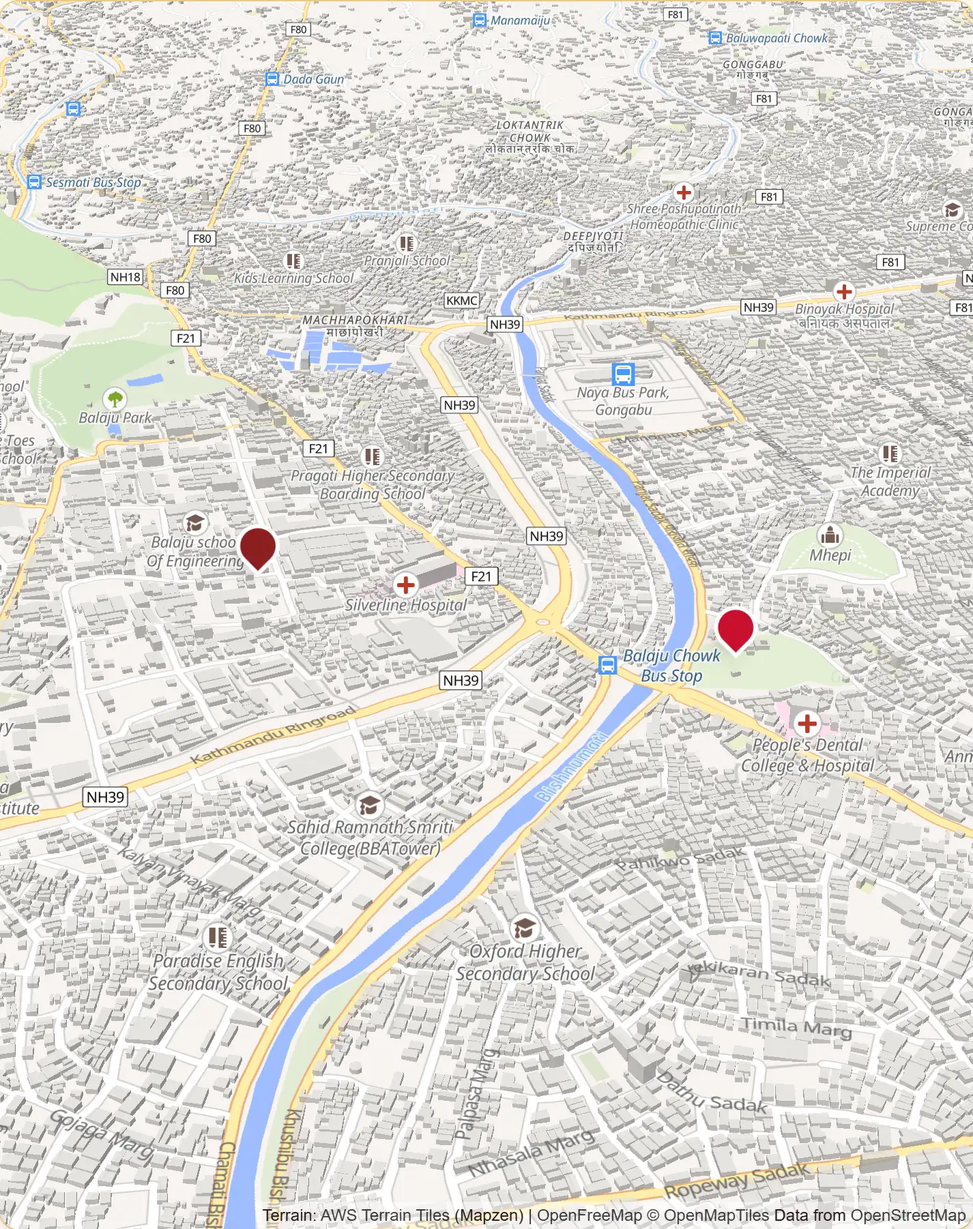
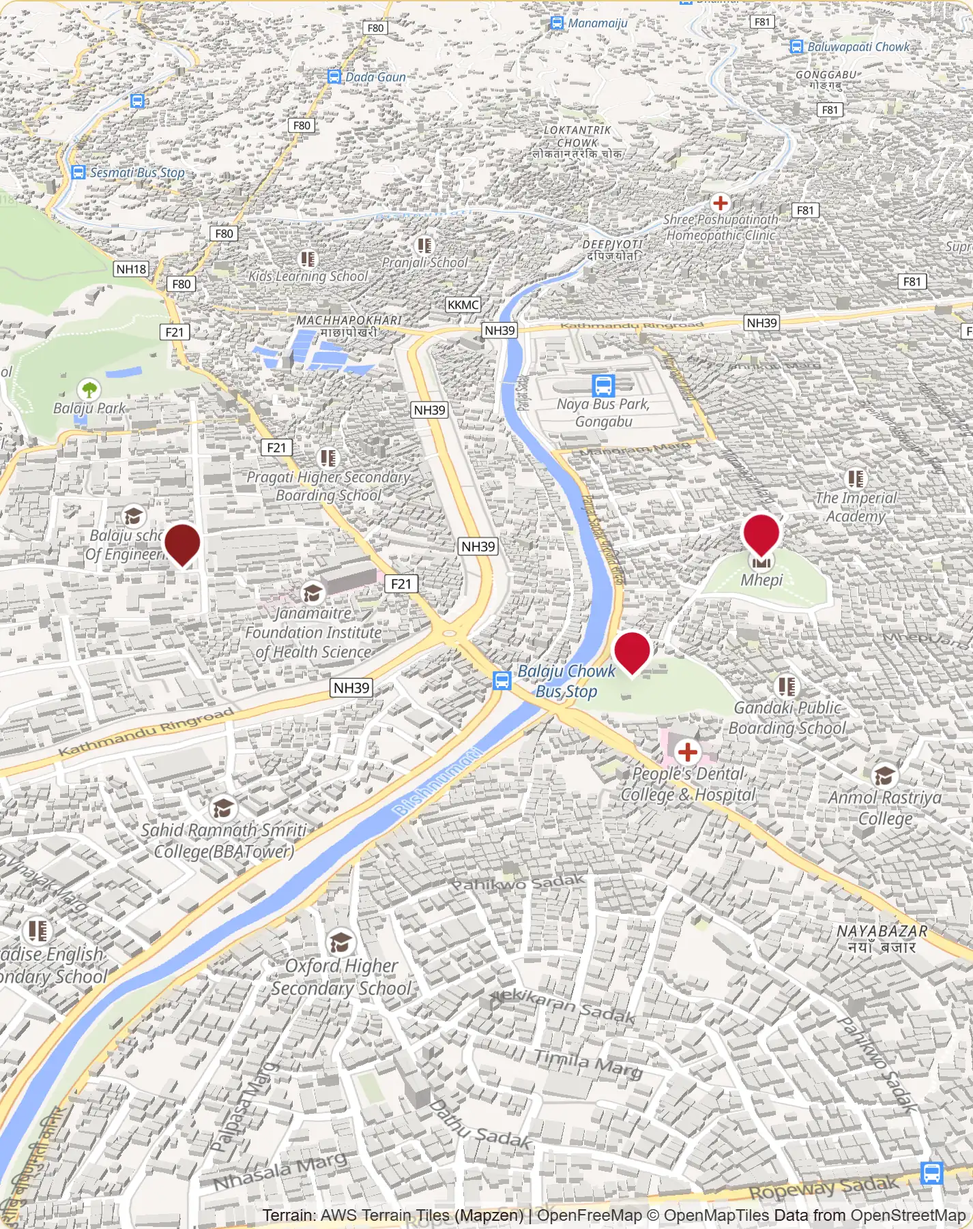
Publish Mhepi Ajima from the chief priest's interview
Source: the ward's interview with the temple's chief priest, Bhushan
Ratna Bajracharya (raw-data mhepi_ajima.docx). The docx was typed in the
Preeti font and converted to Unicode.

Content (EN + NE): history, the meaning of the name, legends, festivals
and the jatra route, architecture, present day and how to visit. Every
claim is attributed to the priest and cited by paragraph. `draft` and all
placeholders are removed.

Unknown facts are left off the page and listed in MISSING_INFO.md:
opening hours, entry fee, photography rules, directions.
`visiting.hours` is now optional.

Chatbot: Mhepi answers updated; new questions "What does 'Mhepi' mean?"
and "What is its link to Rato Machhindranath?".

The map preview now shows all three places. The strict `npm run build`
passes with 0 draft sites; DEPLOY.md now uses it.

diff --git a/src/types/heritage.ts b/src/types/heritage.ts
@@ -34,7 +34,8 @@ export const heritageFrontmatterSchema = z.object({
     }),
   ),
   visiting: z.object({
-    hours: z.string().min(1),
+    /** Left out when not known (the quick facts skip it). */
+    hours: z.string().min(1).optional(),
     entry: z.string().min(1).optional(),
     tips: z.string().min(1).optional(),
   }),

diff --git a/content/heritage/mhepi-ajima.ne.md b/content/heritage/mhepi-ajima.ne.md
@@ -2,20 +2,19 @@
 name: "Mhepi Ajima"
 nameNe: "म्हेपी अजिमा"
 slug: "mhepi-ajima"
-draft: true
-summary: "नयाँ बजार, वडा नं. १६ मा रहेको, म्हेपी संरक्षण तथा व्यवस्थापन समितिको हेरचाहमा रहेको योगाम्बर ज्ञानेश्वरी म्हेपी अजिमाको मन्दिर।"
-location: "नयाँ बजार, काठमाडौँ महानगरपालिका वडा नं. १६"
+summary: "नयाँ बजारको सानो वनयुक्त थुम्कोमा रहेको, सबैले म्हेपी अजिमा भनेर चिन्ने योगाम्बर ज्ञानेश्वरीको मन्दिर: काठमाडौँका अष्टमातृकामध्ये उत्तरतर्फको पीठ, जहाँ बौद्ध र हिन्दु दुवै आउँछन्।"
+location: "नयाँ बजारको सानो वनयुक्त थुम्को, काठमाडौँ महानगरपालिका वडा नं. १६"
 coordinates: [27.727614400718654, 85.30859929776761]
-established: "[PLACEHOLDER: स्थापना वर्ष]"
-deity_or_tradition: "योगाम्बर ज्ञानेश्वरी म्हेपी अजिमा (मन्दिरका अभिलेख अनुसार)"
+established: "लिखित अभिलेख छैन; मन्दिरको परम्पराले यसको इतिहास स्वयम्भू पुराणसँग जोड्छ। परिसरका धेरैजसो मूर्ति वि.सं. २०३० भन्दा अगाडि राखिएका हुन्।"
+deity_or_tradition: "योगाम्बर ज्ञानेश्वरी, अष्टमातृकाको मूल पीठ, बज्रयानी बौद्ध परम्परा; बौद्ध र हिन्दु दुवैले पुज्छन्, र पाटनका धेरै बज्राचार्य तथा शाक्य परिवारको कुल देवता।"
 festivals:
-  - name: "[PLACEHOLDER: चाडको नाम]"
-    month: "[PLACEHOLDER: महिना]"
-    description: "[PLACEHOLDER: चाडको छोटो विवरण]"
+  - name: "चह्रे (कृष्ण पक्ष चतुर्दशी)"
+    description: "कृष्ण पक्षको चतुर्दशीमा मन्दिरमा मुख्य पूजा हुन्छ।"
+  - name: "वार्षिक जात्रा र मेला"
+    month: "चैत्र–वैशाख"
+    description: "चैत्र शुक्ल चतुर्दशीमा टाँलाछीको द्योछेंबाट मूर्तिहरू ल्याई रातभरि र पूर्णिमामा पूजा गरिन्छ, अनि असन, इन्द्रचोक, ठहिटी, पक्नाजोल र क्षेत्रपाटी हुँदै घुमाइन्छ। मन्दिरमा पाँच दिन मेला लाग्छ।"
 visiting:
-  hours: "[PLACEHOLDER: खुल्ने समय]"
-  entry: "[PLACEHOLDER: प्रवेश शुल्क]"
-  tips: "मन्दिरको ढोका अगाडि कुनै पनि पसल नराख्न अनुरोध छ। [PLACEHOLDER: थप सुझाव]"
+  tips: "नित्य पूजा बिहान ४ बजेदेखि ५:३० बजेसम्म हुन्छ, ताकि दर्शन गर्न आउनेहरूलाई बाधा नपरोस्। मन्दिर सबै धर्मावलम्बीका लागि खुला छ। मन्दिरको ढोका अगाडि कुनै पनि पसल नराख्न अनुरोध छ।"
 cover: "/images/mhepi-ajima/temple-front.webp"
 gallery:
   - src: "/images/mhepi-ajima/temple-front.webp"
@@ -64,11 +63,22 @@ gallery:
     alt: "मन्दिर परिसरमाथि हाँगा फैलाएको ठूलो पुरानो रूख"
 ---
 
-<!-- DRAFT. पुष्टि भएका तथ्य स्थलमा खिचिएका अभिलेख र सूचनापाटीबाट लिइएका हुन्। बाँकी सबै प्लेसहोल्डर हुन्। -->
+<!-- स्रोत: मन्दिरका मूल पुरोहित भुषण रत्न बज्राचार्यसँगको अन्तर्वार्ता (raw-data "Mhepi Ajima/mhepi_ajima.docx", प्रीति फन्टमा टाइप गरिएको; अनुच्छेद नम्बरसहित), र स्थलमा खिचिएका अभिलेख तथा सूचनापाटी (मूल फाइलनामसहित)। -->
 
 ## इतिहास {#history}
 
-[PLACEHOLDER: मन्दिरको इतिहास — उत्पत्ति, स्थापना, प्रमुख घटना।]
+<!-- source: mhepi-interview | paras 1–2 -->
+मन्दिरका मूल देवता **योगाम्बर ज्ञानेश्वरी** हुन्, तर जनमानसमा यो मन्दिर **म्हेपी अजिमा** भनेर चिनिन्छ। मूल पुरोहित भुषण रत्न बज्राचार्यले बुवा र बाजेले गर्दै आएको नित्य पूजालाई निरन्तरता दिइरहनुभएको छ।
+
+पुरोहितका अनुसार अष्टमातृकामध्ये म्हेपी **उत्तर** दिशामा पर्छ। बंशावलीमा कान्तिपुर नगरीको रक्षार्थ खड्गाकारमा अष्टमातृकाको स्थापना गरिएको लेखिएको छ। तर यहाँको इतिहास त्यो भन्दा पनि अगाडिको छ: बज्रयानी परम्पराको **योगाम्बर तन्त्र** लाई आधार मानेर योगाम्बर ज्ञानेश्वरीको पीठ बनेको भनिन्छ।
+
+<!-- source: mhepi-interview | para 9 -->
+मन्दिरबारे ऐतिहासिक दस्तावेज अहिलेसम्म खासै छैनन्, तर अनुसन्धानकर्ता र जिज्ञासुहरूले लेखहरू लेखेका छन्।
+
+### नाम कसरी रह्यो {#name}
+
+<!-- source: mhepi-interview | para 7 -->
+मन्दिरको कथाअनुसार (किंवदन्ती र आस्था हेर्नुहोस्) एक गुरुको छोराको शरीर यहाँ गाडेर त्यसमाथि पीठ स्थापना गरिएको थियो। नेपाल भाषामा *म्ह* भनेको शरीर हो, त्यसैले शरीरमाथि बनेको पीठलाई **म्हसा पीठ** भनियो, जुन पछि **म्हेपी** भयो।
 
 ### अभिलेखहरूमा उल्लेखित {#inscriptions}
 
@@ -89,7 +99,18 @@ gallery:
 
 ## किंवदन्ती र आस्था {#legends}
 
-[PLACEHOLDER: म्हेपी अजिमासम्बन्धी किंवदन्ती र आस्था।]
+<!-- source: mhepi-interview | paras 3–6 -->
+पुरोहितले स्वयम्भू पुराणका आधारमा मन्दिरको कथा यसरी सुनाउनुहुन्छ:
+
+- **मञ्जुश्री र दह।** काठमाडौँ उपत्यका पहिले नागदह भनिने तलाउ थियो। कमलको फूलमाथिको ज्योतिरुपको दर्शन गर्न चीनबाट आउनुभएका मञ्जुश्रीले चोभारमा खड्गले डाँडा काटेर पानी निकास गर्नुभयो र उपत्यकालाई बस्ती बस्न लायक बनाउनुभयो।
+- **शान्तश्री।** कश्यप बुद्धको प्रवचनमा ज्योतिरुपको कुरा सुनेर गौड देशका राजा प्रच्छन्द देव राजकाज छोडेर नेपाल आउनुभयो, एक बज्राचार्य गुरुबाट प्रव्रज्या लिएर **शान्तश्री** नाम पाउनुभयो र स्वयम्भूको ज्योतिरुपको संरक्षण गर्नुभयो। भोलि कसैले बिगार्न सक्छ भनेर उहाँले यसलाई स्तूपले छोप्नुभयो। स्वयम्भूको उत्तरतर्फ शान्तिपुरमा बसेर उहाँ योगाम्बर ज्ञानेश्वरीको तन्त्रले नित्य पूजा गर्नुहुन्थ्यो।
+- **देवीलाई अर्पण गरिएको छोरा।** साधनाका क्रममा देवीले उहाँलाई सबैभन्दा मन पर्ने कुरा मागिन्, र उहाँले आफ्नो एक्लो छोरा अर्पण गर्नुभयो। देवीले त्यो बालक बोधिसत्वको रूप भएकाले उसको अनित्य शरीर एक ठाउँमा राख्न र आत्मा आफूले ग्रहण गर्ने बताइन्। त्यो आत्मा पछि यक्षराज शशी र रानी मायाको ५५५ औँ छोराका रूपमा जन्मियो र **रातो मच्छिन्द्रनाथ** का रूपमा नेपाल भित्रियो। बालकको शरीर यहीँ गाडेर त्यसमाथि पीठ स्थापना गरियो।
+
+<!-- source: mhepi-interview | para 8 -->
+यही सम्बन्धका कारण बुङ्गमतीको रातो मच्छिन्द्रनाथ पुनर्निर्माण गर्नुपर्दा त्यहाँका पाञ्जुहरू यहाँ आएर विधिपूर्वक पूजा गरी माटो लैजान्छन्। पुरोहितका अनुसार वि.सं. १९९० को भूकम्पपछि, वि.सं. २०५४, २०५६ र २०६६ मा, र वि.सं. २०७२ को भूकम्पपछि वि.सं. २०७८ मा उनीहरू आएका थिए। यो भूमि यति पवित्र मानिन्छ कि देवीदेवताको मूर्ति यहाँको माटो मिसाएपछि मात्र पूर्ण हुन्छ भन्ने विश्वास छ।
+
+<!-- source: mhepi-interview | paras 9–10 -->
+यहाँ बौद्ध र हिन्दु दुवै धर्मावलम्बी आउँछन्, र तिब्बतबाट आउने महायानी लामाहरूले देवीलाई योगिनीका रूपमा पुज्छन्। रातो मच्छिन्द्रनाथलाई नेपाल ल्याउनमा देवीको महत्त्वपूर्ण भूमिका भएकाले पाटनमा बस्ने धेरै बज्राचार्य, शाक्य र अन्य परिवारले यहाँ **कुल देवता** का रूपमा पूजा गर्छन्।
 
 <!-- source: mhepi-inscriptions | 20261104_083803.heic -->
 म्हयपी संरक्षण तथा व्यवस्थापन समितिले २०७८/५/६ गुँलापुन्हिमा राखेको भजन:
@@ -106,11 +127,22 @@ gallery:
 
 ## चाडपर्व र जात्रा {#festivals}
 
-[PLACEHOLDER: मन्दिरमा मनाइने चाडपर्व र जात्रा।]
+<!-- source: mhepi-interview | paras 11–13 -->
+- **चह्रे।** कृष्ण पक्षको चतुर्दशीलाई चह्रे भनिन्छ; त्यस दिन यहाँ मुख्य पूजा हुन्छ।
+- **वार्षिक जात्रा।** मन्दिरमा मूर्ति होइन, तन्त्र साधनाद्वारा स्थापना गरिएको शिला र पीठ छन्। वार्षिक पूजाका लागि पछि मूर्तिहरू बनाइए; ती अष्टमातृका देवीकै रूपमा **टाँलाछी** को द्योछेंमा राखिएका छन्।
+  - **चैत्र शुक्ल चतुर्दशी** मा मूर्तिहरू टाँलाछीबाट खटमा राखेर विधिवत् रूपमा यहाँ ल्याई स्थापना गरिन्छ र रातभरि पूजा हुन्छ। त्यसपछि पाँच दिन मेला लाग्छ।
+  - **पूर्णिमा** को दिन मूर्तिहरू यहीँ रहन्छन् र धर्मावलम्बीहरू पूजा गर्छन्। करिब १५ वर्षदेखि म्हेपी संरक्षण तथा व्यवस्थापन समितिले त्यस दिन कार्यक्रम गरी प्रसाद वितरण गर्दै आएको छ; वितरण गरिएको प्रसादका आधारमा करिब ४–५ हजार जना आउँछन्। महानगरपालिका, वडा र भक्तजनहरूले सहयोग गर्छन्।
+  - त्यसपछि मूर्तिहरू टाँलाछी लगिन्छन्। भोलिपल्ट असन, इन्द्रचोक, ठहिटी, पक्नाजोल र क्षेत्रपाटी हुँदै घुमाइन्छ, र पर्सिपल्ट पूजा गरेर फेरि द्योछेंभित्र राखिन्छ।
+- **गुठीहरू।** देवतालाई घरघरमा पूजा गराउन जात्रा गराइन्छ। खट बोक्ने, पूजा गर्ने र बाजा बजाउने छुट्टाछुट्टै गुठी थिए। धेरै पुराना सदस्य बितिसके र सन्तानहरू अन्यत्र सरेकाले पहिलेजस्तो माहोल छैन, तर घुमाउने परम्परा अझै छ।
 
 ## वास्तुकला {#architecture}
 
-[PLACEHOLDER: मन्दिरको वास्तुकला — शैली, सामग्री, निर्माण काल।]
+<!-- source: mhepi-interview | paras 15, 17–18 -->
+मन्दिर **सानो वनयुक्त थुम्को** माथि छ, सहरको बीचमा रहेको एउटा सानो जंगल। बीचमा अष्टमातृकाको मूल पीठका रूपमा ज्ञानेश्वरी विराजमान हुनुहुन्छ, मूर्तिका रूपमा होइन, शिला र पीठका रूपमा।
+
+परिसरमा महादेव, विष्णु, कृष्ण र बुद्ध भगवान पनि हुनुहुन्छ। पुरोहितका अनुसार धेरैजसो मूर्ति वि.सं. २०३० भन्दा अगाडि राखिएका हुन्; एउटा अभिलेखअनुसार सरस्वतीको मूर्ति वि.सं. २००५ तिर राखिएको हो। तल गुनालतर्फ खाली ठाउँमा करिब तीन वर्षअघि (२०२६ को हिसाबले) नारायणको मन्दिर स्थापना गरिएको छ, र भक्तजनहरूले हनुमानको सानो मूर्ति राखेका छन्।
+
+माथिका दाता अभिलेखहरूमा मन्दिरमा चढाइएको **पित्तलको दुईतह छाना** र धातुको पाताको काम उल्लेख छ।
 
 ## वर्तमान अवस्था {#present-day}
 
@@ -122,11 +154,15 @@ gallery:
 - परिसरमा *शान्तिकर ध्यानागार ध्यानाश्रम* छ।
 - मन्दिरको ढोका अगाडि कुनै पनि पसल नराख्न समितिको अनुरोध छ।
 
-[PLACEHOLDER: मन्दिरको वर्तमान अवस्थाबारे थप।]
+<!-- source: mhepi-interview | paras 1, 14–15 -->
+- **म्हेपी संरक्षण तथा व्यवस्थापन समिति** वि.सं. **२०५४** मा स्थापना भएको हो। पुराना मूर्तिहरूको संरक्षण, नित्य पूजा, थुम्कोको वन, सुरक्षा र सरसफाइको जिम्मेवारी समितिको छ, र यो चन्दाको सहयोगमा चल्छ।
+- नित्य पूजा बिहान **४ बजे** सुरु भएर **५:३०** सम्म सकिन्छ, ताकि दर्शन गर्न आउने धर्मावलम्बीहरूलाई बाधा नपरोस्।
+- पुरोहितका अनुसार अनलाइन नक्सामा मन्दिर देखिए पनि यसको इतिहास वा म्हेपी नामको अर्थ धेरैलाई थाहा छैन।
 
 ## कसरी पुग्ने {#how-to-visit}
 
-- **ठाउँ:** नयाँ बजार, का.म.न.पा. वडा नं. १६। [PLACEHOLDER: बाटो र नजिकको चिनारी]
-- **खुल्ने समय:** [PLACEHOLDER: खुल्ने समय]
-- **प्रवेश शुल्क:** [PLACEHOLDER: प्रवेश शुल्क]
-- **फोटो खिच्ने नियम:** [PLACEHOLDER: फोटो खिच्ने नियम]
+<!-- source: mhepi-interview | paras 1, 15, 18 -->
+- **ठाउँ:** नयाँ बजारको सानो वनयुक्त थुम्को, का.म.न.पा. वडा नं. १६। थ्रीडी नक्सामा हेर्नुहोस्।
+- **नित्य पूजा:** बिहान ४:००–५:३०।
+- **को आउन सक्छ:** मन्दिर सबै धर्मावलम्बीका लागि खुला छ।
+- मन्दिरको ढोका अगाडि कुनै पनि पसल नराख्न अनुरोध छ।

diff --git a/content/heritage/mhepi-ajima.en.md b/content/heritage/mhepi-ajima.en.md
@@ -2,20 +2,19 @@
 name: "Mhepi Ajima"
 nameNe: "म्हेपी अजिमा"
 slug: "mhepi-ajima"
-draft: true
-summary: "The temple of Yogambar Jnaneshwari Mhepi Ajima in Naya Bazar, Ward 16, cared for by the Mhepi Conservation and Management Committee."
-location: "Naya Bazar, Kathmandu Metropolitan City Ward No. 16"
+summary: "The temple of Yogambar Jnaneshwari, known to all as Mhepi Ajima, on a small wooded hill in Naya Bazar: the northern seat among Kathmandu's Ashtamatrika goddesses, honoured by Buddhists and Hindus alike."
+location: "On a small wooded hill in Naya Bazar, Kathmandu Metropolitan City Ward No. 16"
 coordinates: [27.727614400718654, 85.30859929776761]
-established: "[PLACEHOLDER: founding year]"
-deity_or_tradition: "Yogambar Jnaneshwari Mhepi Ajima (as named in the temple inscriptions)"
+established: "Not recorded; the temple's tradition traces it to the Swayambhu Purana. Most images in the grounds date from before VS 2030."
+deity_or_tradition: "Yogambar Jnaneshwari, the principal seat (mool peeth) of the Ashtamatrikas, in the Vajrayana Buddhist tradition; worshipped by Buddhists and Hindus, and the lineage deity (kul devata) of many Bajracharya and Shakya families of Patan."
 festivals:
-  - name: "[PLACEHOLDER: festival name]"
-    month: "[PLACEHOLDER: month]"
-    description: "[PLACEHOLDER: short description of the festival]"
+  - name: "Charhe (Krishna Paksha Chaturdashi)"
+    description: "The main puja at the temple, on the fourteenth day of the dark fortnight."
+  - name: "Annual jatra and mela"
+    month: "Chaitra–Baishakh"
+    description: "From Chaitra Shukla Chaturdashi the goddesses' images are brought from their god-house at Tanlachhi, worshipped through the night and on the full moon, then carried around Asan, Indrachowk, Thahiti, Paknajol and Kshetrapati. A five-day mela is held at the temple."
 visiting:
-  hours: "[PLACEHOLDER: opening hours]"
-  entry: "[PLACEHOLDER: entry fee]"
-  tips: "Please do not set up stalls in front of the temple door. [PLACEHOLDER: more visiting tips]"
+  tips: "The daily puja is held early, from 4:00 to 5:30 am, so that it is over before visitors come for darshan. The temple is open to people of every faith. Please do not set up stalls in front of the temple door."
 cover: "/images/mhepi-ajima/temple-front.webp"
 gallery:
   - src: "/images/mhepi-ajima/temple-front.webp"
@@ -64,11 +63,22 @@ gallery:
     alt: "A large old tree spreading its branches over the temple grounds"
 ---
 
-<!-- DRAFT. Confirmed facts come from inscriptions and notice boards photographed on site (cited by original filename in raw-data "Mhepi Ajima/Photo/"). Everything else is placeholder text until the ward provides the data. -->
+<!-- Sources: an interview with the temple's chief priest, Bhushan Ratna Bajracharya (raw-data "Mhepi Ajima/mhepi_ajima.docx", typed in the Preeti font; cited by paragraph), and inscriptions and notice boards photographed on site (cited by original filename). English translated from the Nepali. -->
 
 ## History {#history}
 
-[PLACEHOLDER: history of the temple — origin, founding, major events.]
+<!-- source: mhepi-interview | paras 1–2 -->
+The temple's main deity is **Yogambar Jnaneshwari**, but most people know the temple simply as **Mhepi Ajima**. Its chief priest, Bhushan Ratna Bajracharya, continues the daily worship as his father and grandfather did before him.
+
+According to the priest, Mhepi lies to the **north** among the Ashtamatrikas, the eight mother goddesses around the city. He cites a vamshavali (chronicle) which records that the Ashtamatrikas were established in the shape of a sword (khadga) to protect Kantipur, today's Kathmandu. He adds that the history of the place is older still: the seat (peeth) of Yogambar Jnaneshwari is said to be based on the **Yogambar tantra** of the Vajrayana Buddhist tradition.
+
+<!-- source: mhepi-interview | para 9 -->
+No historical documents about the temple are known so far, although researchers and interested people have written articles about it.
+
+### How the name came about {#name}
+
+<!-- source: mhepi-interview | para 7 -->
+In the temple's story (see Legends & Beliefs), the body of a holy man's son was buried here and the peeth was built above it. In Nepal Bhasa *mha* means body, so a seat built over a body was called **Mhasa peeth**, a name that in time became **Mhepi**.
 
 ### What the inscriptions record {#inscriptions}
 
@@ -89,7 +99,18 @@ gallery:
 
 ## Legends & Beliefs {#legends}
 
-[PLACEHOLDER: legends and beliefs about Mhepi Ajima.]
+<!-- source: mhepi-interview | paras 3–6 -->
+The priest tells the temple's story through the Swayambhu Purana:
+
+- **Manjushri and the lake.** The Kathmandu Valley was once a lake, then called Nagdaha. Manjushri came from China to see the *jyotirupa*, a light on a lotus flower, cut the hill at Chobhar with his sword to drain the water, and made the valley fit to live in.
+- **Shantashri.** Hearing Kashyap Buddha preach about the light, King Prachanda Dev of Gaud left his kingdom, came to Nepal, took ordination from a Bajracharya guru and, as the monk **Shantashri**, cared for the light at Swayambhu. Fearing it could be destroyed, he covered it with a stupa. He worshipped it every day with the tantra of Yogambar Jnaneshwari, living at Shantipur, on the north side of Swayambhu.
+- **The son given to the goddess.** During his practice the goddess asked him for what he loved most, and he gave his only son. She said the boy was a form of a Bodhisattva: his body was to be laid in one place, while she took his soul. The soul was later born as the 555th son of King Yaksharaj Shashi and Queen Maya, and came to Nepal as **Rato Machhindranath**. The boy's body was buried here, and the peeth was established above it.
+
+<!-- source: mhepi-interview | para 8 -->
+Because of this link, when the Rato Machhindranath of Bungamati has to be rebuilt, its priests (panju) come here, perform puja and take soil from the temple. The priest remembers them coming after the earthquake of VS 1990, in VS 2054, 2056 and 2066, and, after the earthquake of VS 2072, in VS 2078. The ground is held so sacred that an image of a god is said to be complete only when soil from here is mixed in.
+
+<!-- source: mhepi-interview | paras 9–10 -->
+Buddhists and Hindus both worship here, and lamas of the Mahayana tradition from Tibet worship the goddess as a yogini. Because of her part in bringing Rato Machhindranath to Nepal, many Bajracharya, Shakya and other families of Patan worship her as their **kul devata** (lineage deity), more so than families in Kathmandu.
 
 <!-- source: mhepi-inscriptions | 20261104_083803.heic -->
 The temple bhajan, displayed on a marble plaque by the Mhepi Conservation and Management Committee (dated 2078/5/6, Gunla Punhi), invokes the goddess by several names:
@@ -106,11 +127,22 @@ The temple bhajan, displayed on a marble plaque by the Mhepi Conservation and Ma
 
 ## Festivals & Jatras {#festivals}
 
-[PLACEHOLDER: festivals and jatras celebrated at the temple.]
+<!-- source: mhepi-interview | paras 11–13 -->
+- **Charhe.** The main puja is held on Krishna Paksha Chaturdashi, the fourteenth day of the dark fortnight, which is called Charhe.
+- **The annual jatra.** The temple itself has no images, only stones (shila) and the peeth, consecrated through tantric practice. For the yearly worship, images were made later; they are kept as the Ashtamatrika goddesses in the god-house (dyochhen) at **Tanlachhi**.
+  - On **Chaitra Shukla Chaturdashi** the images are brought from Tanlachhi on a khat (palanquin) with due ritual, installed at the temple and worshipped through the night. A five-day mela follows.
+  - On the **full moon** the images stay at the temple for devotees. For about 15 years the Mhepi Conservation and Management Committee has held a programme that day and distributed prasad, to about 4,000–5,000 people judging by the prasad given out. The Metropolitan City, the ward and devotees help with the costs.
+  - The images are then taken back to Tanlachhi. The next day they are carried around Asan, Indrachowk, Thahiti, Paknajol and Kshetrapati, and the day after they are returned to the god-house with puja.
+- **The guthis.** The procession lets households worship the goddess at their own doors. Guthis (community trusts) shared the work: one carried the khat, one performed the puja, one played the music. Many of the old members have died and their families have moved away, so the jatra is quieter than it was, but the procession still goes on.
 
 ## Architecture {#architecture}
 
-[PLACEHOLDER: architecture of the temple — style, materials, dating.]
+<!-- source: mhepi-interview | paras 15, 17–18 -->
+The temple stands on a **small wooded hill** (thumko), a patch of forest in the middle of the city. At its centre is Jnaneshwari, the principal seat of the Ashtamatrikas, in the form of stones and the peeth rather than an image.
+
+The grounds also hold Mahadev, Vishnu, Krishna and the Buddha. According to the priest, most of these images were placed before VS 2030; an inscription dates the Saraswati image to around VS 2005. Below the hill, on the Gunal side, a Narayan temple was established on an empty site about three years ago (as of 2026), and devotees have placed a small Hanuman image.
+
+The donor inscriptions (above) record a **two-tiered brass roof** and metal-sheet work offered to the temple.
 
 ## Present Day {#present-day}
 
@@ -122,11 +154,15 @@ The temple is looked after by the **Mhepi Conservation and Management Committee*
 - The grounds include the *Shantikar Dhyanagar Dhyanashram* (शान्तिकर ध्यानागार ध्यानाश्रम), a meditation hall.
 - The committee asks that **no stalls** be set up in front of the temple door.
 
-[PLACEHOLDER: more about the temple today.]
+<!-- source: mhepi-interview | paras 1, 14–15 -->
+- The **Mhepi Conservation and Management Committee** was founded in **VS 2054**. It looks after the old images, the daily puja, the forest on the hill, security and cleaning, and runs on donations.
+- The daily puja starts at **4:00 am** and ends by **5:30 am**, earlier than at many temples, so that devotees coming for darshan are not disturbed.
+- The priest notes that, although the temple appears on online maps, few people know its history or what the name Mhepi means.
 
 ## How to Visit {#how-to-visit}
 
-- **Where:** Naya Bazar, KMC Ward No. 16. [PLACEHOLDER: directions and nearest landmark]
-- **Hours:** [PLACEHOLDER: opening hours]
-- **Entry fee:** [PLACEHOLDER: entry fee]
-- **Photography:** [PLACEHOLDER: photography rules]
+<!-- source: mhepi-interview | paras 1, 15, 18 -->
+- **Where:** on a small wooded hill in Naya Bazar, KMC Ward No. 16. See it on the 3D map.
+- **Daily puja:** 4:00–5:30 am.
+- **Who may come:** the temple is open to people of every faith.
+- Please do not set up stalls in front of the temple door.

diff --git a/MISSING_INFO.md b/MISSING_INFO.md
@@ -2,15 +2,21 @@
 
 Everything here is either missing from the raw data or needs a human to check it.
 
-**Current status (12 Nov 2026):**
+**Current status (13 Nov 2026):**
 
-- **Mhepi Ajima is a draft** (`draft: true`). Only facts from inscriptions and notice boards are kept; every other section is `[PLACEHOLDER: …]` text until the ward sends the data. The sattal fees and committee phone were removed from the page until confirmed.
+- **Mhepi Ajima is published** (13 Nov 2026). History, legends, festivals, architecture and present day now come from the ward's interview with the temple's chief priest (`Mhepi Ajima/mhepi_ajima.docx`), plus the inscriptions and notice boards. Facts still unknown (opening hours, entry fee, photography rules, directions) are left off the page and listed in §1. The sattal fees and committee phone are still off the page until confirmed.
 - **Nanak Math is publishable.** Facts that are still unknown (entry fee, photography rules, etiquette, most festival months) are simply left off the page rather than shown as TODOs. They stay listed in §2 so they can be added later.
 - `npm run build` refuses to run while any content file has `draft: true`, `[PLACEHOLDER` or `[TODO` (`npm run check-content`).
 
-## 0. Untranscribed audio (Whisper skipped — ward will supply Mhepi data)
+## 0. Untranscribed audio (Whisper skipped)
 
 Most of the missing Mhepi Ajima content, and all ward information, is probably in these recordings. They have **not** been transcribed.
+
+| File | Length | Likely contents |
+|---|---|---|
+- **Mhepi: written transcript received (13 Nov 2026).** `Mhepi Ajima/mhepi_ajima.docx` is the chief priest's interview, typed in the legacy **Preeti** font (Latin letters that only look Nepali in that font). Claude converted it to Unicode with a Preeti→Unicode mapping and saved the result next to it as `mhepi_ajima.unicode.txt` (raw-data, not committed). The page cites it by paragraph number in that file.
+  - [ ] A Nepali reader should check the converted text against the docx opened in the Preeti font, especially conjuncts (e.g. "बुङ्मती" in the transcript; the site writes बुङ्गमती) and one unclear phrase in the last paragraph ("सो फ्रस्टको पाउन सक्छन्", not used).
+  - The audio files below were not used; the transcript may be a summary of them.
 
 | File | Length | Likely contents |
 |---|---|---|
@@ -27,16 +33,18 @@ Most of the missing Mhepi Ajima content, and all ward information, is probably i
 
 ## 1. Mhepi Ajima
 
-- [ ] **Founding year / age** (`established`)
-- [ ] **History**: origin, who built it, major events
-- [ ] **Legends & beliefs**: what the goddess is known for, why she is called "Yogambar Jnaneshwari"
-- [ ] **Festivals & jatras**: names, months, descriptions (the `festivals` list is all TODO)
-- [ ] **Tradition / community**: which community worships here (the donor names are Shrestha, Shakya, Timila and Maharjan)
-- [ ] **Architecture**: style, materials and dating (section is a placeholder; the earlier photo-based description was removed)
-- [ ] **Opening hours**: the committee notice board says 8–11 am, but this may be office or booking hours
+- [x] **History, legends, festivals, tradition, architecture, present day**: from the chief priest's interview (13 Nov 2026). Every claim is attributed to him ("according to the priest") and cited by paragraph.
+- [ ] **Confirm Bhushan Ratna Bajracharya agrees to be named** as the source (Sources section, History and the chatbot's "What does Mhepi mean?" mention the chief priest; the Sources section names him).
+- [x] **Founding year**: not recorded. Quick facts say so and give what is known (tradition traces it to the Swayambhu Purana; most images placed before VS 2030).
+- [ ] **Jatra dates**: the priest says a five-day mela runs "from Chaitra Shukla Chaturdashi … until Baishakh trayodashi", which is more than five days. The page says "a five-day mela" from Chaitra Shukla Chaturdashi and gives no end date. Confirm.
+- [ ] **Committee founding year**: the transcript says "सन् २०५४ साल"; 2054 can only be VS, so the page says VS 2054. Confirm.
+- [ ] **"About three years ago"** (Narayan temple below the hill): the page writes "about three years ago (as of 2026)". An exact year would be better.
+- [ ] **Shantashri / Shantikar Acharya**: the priest calls the monk Shantashri, then speaks of "Shantikar Acharya's son". The page treats them as the same person and avoids the second name. Confirm.
+- [ ] **Charhe**: is the main puja on *every* Krishna Paksha Chaturdashi, or on one in particular? The page does not say "every month".
+- [ ] **Opening hours**: still unknown. The page shows only the daily puja (4:00–5:30 am, from the interview). The committee notice board says 8–11 am, which may be office or booking hours.
 - [ ] **Entry fee**
 - [ ] **Photography rules**, dress and footwear etiquette
-- [ ] **Directions / nearest landmark**: the only written location is "नयाँ बजार, का.म.न.पा. वडा नं. १६"
+- [ ] **Directions / nearest landmark**: the page says "on a small wooded hill in Naya Bazar" (from the interview); step-by-step directions are still missing
 - [ ] **Committee phone** (removed from page): read as ४३५९८९० from a weathered notice board; must be checked
 - [ ] **Sattal fees** (removed from page): read from the notice board (Rs 1,000–5,000 + Rs 300); confirm the current rates
 - [ ] **Bhajan line 2**: is it "जय गुह्येश्वरी आमा"? The letter was hard to read.
@@ -116,7 +124,7 @@ Most of the missing Mhepi Ajima content, and all ward information, is probably i
 
 These files contain Nepali written by Claude, not taken from a source. A native speaker should review them.
 
-- `content/heritage/mhepi-ajima.ne.md`: the whole file apart from quoted inscriptions and the bhajan
+- `content/heritage/mhepi-ajima.ne.md`: rewritten on 13 Nov 2026 by Claude from the priest's Nepali transcript (condensed, mostly his own words). Everything apart from the quoted inscriptions and the bhajan needs review. The new Mhepi chatbot answers in `content/faq.json` (`mhepi-*`, including the new `mhepi-name` and `mhepi-machhindranath`) too.
 - `content/heritage/nanak-math.ne.md`: mostly the docx's own sentences, shortened. The summary, How to Visit, list intros and table labels are by Claude.
 - The `alt` text in all `gallery` entries of the `.ne.md` files
 - `src/i18n/ne.json`: all Nepali UI strings (nav, footer, language toggle, skip link) were written by Claude
@@ -143,7 +151,7 @@ These files contain Nepali written by Claude, not taken from a source. A native 
 - [ ] **Confirm the stop order** in `content/routes.json` (`mhepi-ajima` → `nanak-math`). It was set by the developer, not taken from the ward; swap it if the walk should run the other way.
 - [ ] **Walking paths and distances.** `routes.json` has `"walking": null`, so the map shows a dashed straight line and straight-line distances only (≈ 960 m between the two sites). Run `npm run fetch-route` on a machine with internet, check the paths on the map, and commit `content/routes.json`.
 - [ ] **Better coordinates.** Nanak Math and the ward office are marked approximate; the Mhepi Ajima point is not marked approximate but has no recorded source. Walking paths end at these points, so they are only as good as the coordinates.
-- [ ] **Route needs two published sites.** While Mhepi Ajima is a draft, production builds show no route (one stop is not a route). The route appears by itself once Mhepi Ajima is published.
+- [x] **Route needs two published sites.** Mhepi Ajima was published on 13 Nov 2026, so the route now appears with both stops (checked in the strict build).
 - [ ] **Categories.** The sites have no category field. The map's filters use only what exists (heritage site / ward office) and the filter buttons hide when a single category is present. Add a `category` field to the content schema only once the ward agrees on real categories (e.g. temple, math, kuthi).
 - [ ] **Nepali interface strings** added under `map` in `src/i18n/ne.json` (search, filters, legend, route, detail panel) were written by the developer and need a native-speaker review.
 - [ ] **Audio stories** (later): need community recordings with written consent, then a place for them in the content schema and the detail panel.

diff --git a/DEPLOY.md b/DEPLOY.md
@@ -4,7 +4,7 @@ The full step-by-step deployment guide is written in Phase 11. This file collect
 
 ## Preview deploy now (Cloudflare Pages, free)
 
-While Mhepi Ajima is a draft, the strict `npm run build` stops on purpose, so the preview uses **`npm run build:preview`**. It builds the site without Mhepi and checks the output (`verify-output`). No credit card is needed at any step.
+Mhepi Ajima was published on 13 Nov 2026, so nothing is a draft any more and Cloudflare uses the strict **`npm run build`**. It checks the content first (`check-content`) and the output after (`verify-output`). (`npm run build:preview` is only needed again if a site is ever put back in draft.) No credit card is needed at any step.
 
 1. **Push the code to GitHub.** Cloudflare builds from the repository, not from this computer.
    ```
@@ -18,22 +18,22 @@ While Mhepi Ajima is a draft, the strict `npm run build` stops on purpose, so th
    - **Project name:** e.g. `ward16-heritage`. The site will be at `https://ward16-heritage.pages.dev`.
    - **Production branch:** `main`
    - **Framework preset:** `Next.js (Static HTML Export)`, or `None`; the two fields below are what matter.
-   - **Build command:** `npm run build:preview`
+   - **Build command:** `npm run build`
    - **Build output directory:** `out`
    - **Root directory:** leave empty.
 6. **Environment variables** (same screen, *Environment variables (advanced)*):
    - `SITE_URL` = `https://ward16-heritage.pages.dev` (use your project name; no trailing slash). It makes link previews (Open Graph images) point at the real site.
    - `NEXT_PUBLIC_WEB3FORMS_KEY` = the key from https://web3forms.com (optional now; without it the contact page shows the email address instead of the form).
    - Node.js: the repository's `.node-version` file asks for Node 22, so nothing to set. If the build log shows another version, add `NODE_VERSION` = `22`.
-7. **Save and Deploy.** The first build takes a few minutes. The log should end with `✔ verify-output: no placeholders; 1 draft site(s) fully excluded; … images free of metadata.` If you change an environment variable later, redeploy: **Deployments** → latest → **⋯** → **Retry deployment**.
+7. **Save and Deploy.** The first build takes a few minutes. The log should end with `✔ verify-output: no placeholders; 0 draft site(s) fully excluded; … images free of metadata.` If you change an environment variable later, redeploy: **Deployments** → latest → **⋯** → **Retry deployment**.
 8. **Check the preview** at `https://<project>.pages.dev`:
    - `/` redirects to `/en/`; the EN | ने switch works.
-   - Only Nanak Math appears (no Mhepi Ajima anywhere).
+   - Both Nanak Math and Mhepi Ajima appear, in English and Nepali, and the walking route on the map has both stops.
    - The section below (*Prefetch files on Windows builds*).
    - On a phone, open `/en/map/` directly: you should see the still picture with **Show 3D map**. Tap the floating **3D Map** button from another page: the map loads at once.
    - Run Lighthouse (Chrome DevTools → Lighthouse → Mobile) on the live URL; local scores on Windows are noisy (see below).
 
-Every later `git push` to `main` redeploys automatically. **When Mhepi Ajima is ready** (no `draft: true`, no `[PLACEHOLDER`), change the build command to `npm run build` under **Settings → Build → Build configuration**, so production uses the strict build.
+Every later `git push` to `main` redeploys automatically. If the project was already set up with `npm run build:preview`, change it to `npm run build` under **Settings → Build → Build configuration**.
 
 ## Lighthouse (Phase 9)
 
@@ -59,7 +59,7 @@ Before the Phase 9 image and map work: home 89, detail 80, gallery 82, map 69.
 
 ## Map preview picture
 
-Phones that open the 3D map page directly first see a still picture (`public/images/map/preview*.webp`) and a **Show 3D map** button, because the map downloads about 4 MB (≈1 MB of map code, ≈3.5 MB of map and terrain tiles). Visitors who arrive from a link on the site get the map at once. The picture is a screenshot of this map taken from a `build:preview` (so draft sites never appear in it), stored in raw-data as `map-preview/map-preview.png` and built by `npm run optimize-images` (`map/preview` in `scripts/image-manifest.json`). Retake it whenever the places on the map change (e.g. when Mhepi leaves draft), at 1100×1200 px with device scale 2, with the zoom/fullscreen buttons and Nani hidden and the attribution line kept.
+Phones that open the 3D map page directly first see a still picture (`public/images/map/preview*.webp`) and a **Show 3D map** button, because the map downloads about 4 MB (≈1 MB of map code, ≈3.5 MB of map and terrain tiles). Visitors who arrive from a link on the site get the map at once. The picture is a screenshot of this map taken from a production build (draft sites never appear in it); retaken on 13 Nov 2026 with Mhepi Ajima, Nanak Math and the ward office, stored in raw-data as `map-preview/map-preview.png` and built by `npm run optimize-images` (`map/preview` in `scripts/image-manifest.json`). Retake it whenever the places on the map change, at 1100×1200 px with device scale 2, with the zoom/fullscreen buttons and Nani hidden and the attribution line kept.
 
 ## Build settings (Cloudflare Pages)
 
